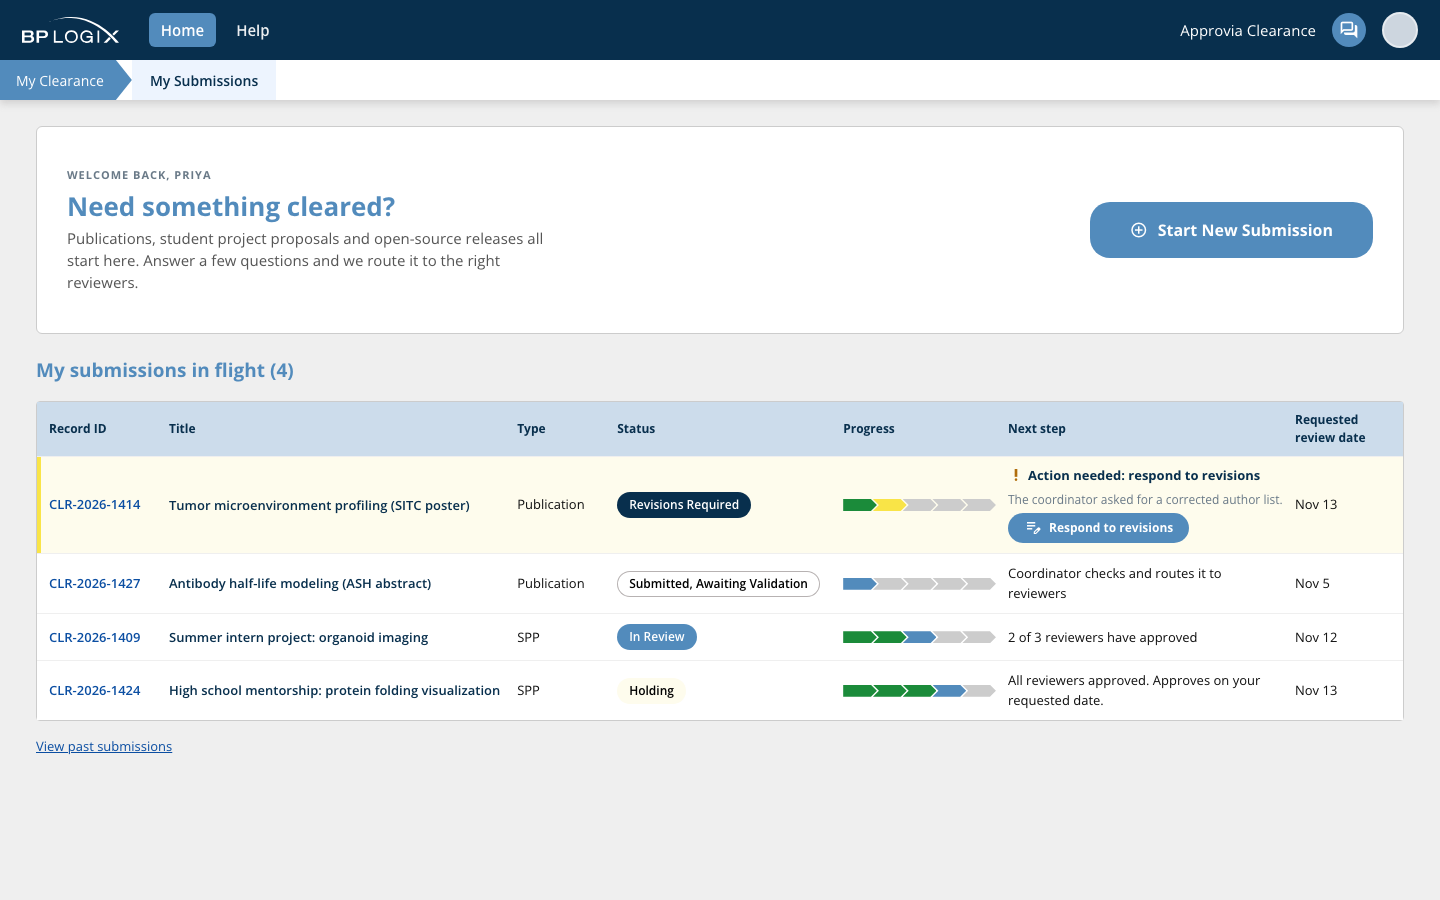
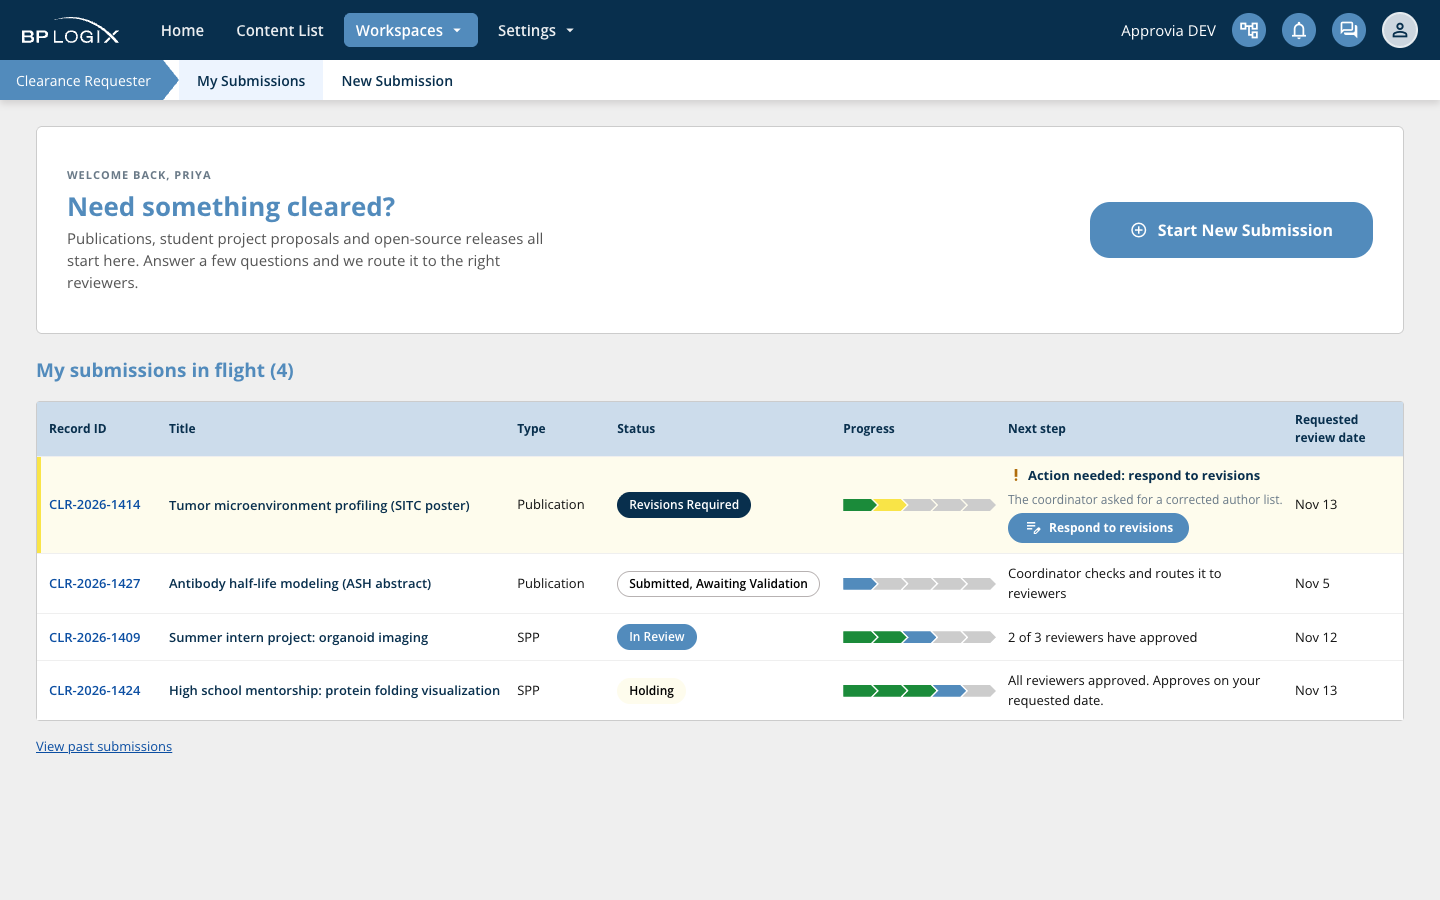
Move the clearance screens into the signed-in PubPro app
Coordinator and requester dashboards and the Student Project Proposal form now
live at /clearance/* inside the app layout, reached from Workspaces and Create
New. The separate no-sign-in /mockups pages are gone; screenshots recaptured.

Changed region(s): [[0.0312, 0.0, 0.4062, 0.1244], [0.7812, 0.0, 0.9375, 0.0622]]

diff --git a/client/src/components/chrome.js b/client/src/components/chrome.js
@@ -5,12 +5,12 @@ const HELP = { label: 'Help', icon: 'info' };
 // One product nav on every staff page (menu items without a page yet are placeholders).
 const FULL_NAV = [
   'Home', 'Content List',
-  { label: 'Workspaces', menuItems: ['Publication Manager Dashboard', 'Executive Dashboard', 'External Author Dashboard', 'Publication Library', 'Reports', HELP] },
+  { label: 'Workspaces', menuItems: ['Publication Manager Dashboard', 'Executive Dashboard', 'External Author Dashboard', 'Publication Library', 'Clearance Coordinator', 'Clearance Requester', 'Reports', HELP] },
   // System Administrator lives under Settings (only people who can manage users see it).
   { label: 'Settings', menuItems: ['System Administrator'] },
 ];
 
-const CREATE_FULL = { label: 'Create New', menuItems: ['Publication', 'Publication Planning', 'External Author', 'IIS Request', 'Grants Management', 'Medical Information Request', 'Review Process Form', 'Standard Medical Response'] };
+const CREATE_FULL = { label: 'Create New', menuItems: ['Publication', 'Publication Planning', 'External Author', 'Student Project Proposal', 'IIS Request', 'Grants Management', 'Medical Information Request', 'Review Process Form', 'Standard Medical Response'] };
 const SEARCH_FULL = { label: 'Searches', menuItems: ['Publications', 'Publication Plans', 'Conferences', 'Journals', 'Studies', 'External Authors', 'Approvia', 'Medical Information Requests'] };
 
 // Layout adds the live unread count from the notifications bell to this tab.
@@ -20,6 +20,12 @@ const EXECUTIVE_DASHBOARD = {
   nav: FULL_NAV, active: 'Home',
   workspace: 'Executive Dashboard', tabs: [ALERTS_TAB, CREATE_FULL, SEARCH_FULL],
 };
+
+// Requesters see only their submissions and the new-submission form.
+const CLEARANCE_REQUESTER = activeTab => ({
+  nav: FULL_NAV, active: 'Workspaces',
+  workspace: 'Clearance Requester', tabs: ['My Submissions', 'New Submission'], activeTab,
+});
 
 export const CHROME = {
   '/dashboard': {
@@ -54,6 +60,13 @@ export const CHROME = {
     nav: FULL_NAV, active: 'Settings',
     workspace: 'System Administrator', tabs: [ALERTS_TAB, CREATE_FULL, SEARCH_FULL],
   },
+  // Clearance screens (static sample data).
+  '/clearance/coordinator': {
+    nav: FULL_NAV, active: 'Workspaces',
+    workspace: 'Clearance Coordinator', tabs: [ALERTS_TAB, CREATE_FULL, SEARCH_FULL],
+  },
+  '/clearance/requester': CLEARANCE_REQUESTER('My Submissions'),
+  '/clearance/new-spp': CLEARANCE_REQUESTER('New Submission'),
   // The Financial Report design has its own navy back bar and no app chrome.
   '/financial-report': null,
 };
@@ -73,6 +86,10 @@ export const MENU_ROUTES = {
   'External Author Dashboard': '/author-dashboard',
   'Publication Library': '/library',
   'System Administrator': '/admin',
+  'Clearance Coordinator': '/clearance/coordinator',
+  'Clearance Requester': '/clearance/requester',
+  'My Submissions': '/clearance/requester',
+  'New Submission': '/clearance/new-spp',
 };
 
 export const SEARCH_ROUTES = {
@@ -94,4 +111,5 @@ export const CREATE_ROUTES = {
   'Publication': '/publication/new',
   'Publication Planning': '/publication-plan/new',
   'External Author': '/external-author/new',
+  'Student Project Proposal': '/clearance/new-spp',
 };

diff --git a/client/src/App.jsx b/client/src/App.jsx
@@ -24,7 +24,9 @@ import UserProfile from './pages/UserProfile';
 import SystemAdmin from './pages/SystemAdmin';
 import PublicationLibrary, { LibraryPublication } from './pages/PublicationLibrary';
 import AuthorInvitation from './pages/AuthorInvitation';
-import RegeneronMockups from './pages/mockups/regeneron';
+import ClearanceCoordinator from './pages/mockups/regeneron/CoordinatorDashboard';
+import ClearanceRequester from './pages/mockups/regeneron/RequesterDashboard';
+import ClearanceSppForm from './pages/mockups/regeneron/SppIntakeForm';
 
 function RequireAuth({ children }) {
   const { user, loading } = useAuth();
@@ -45,8 +47,6 @@ export default function App() {
       <BrowserRouter>
         <Routes>
           <Route path="/login" element={<LoginPage />} />
-          {/* Static sales mockups: no sign-in, no data. */}
-          <Route path="/mockups/regeneron/*" element={<RegeneronMockups />} />
           <Route path="/" element={<RequireAuth><Layout /></RequireAuth>}>
             {/* Staff land on the Publication Manager Dashboard. */}
             <Route index element={<Navigate to="/publication-manager" replace />} />
@@ -73,6 +73,10 @@ export default function App() {
             <Route path="vendor" element={<VendorProfile />} />
             <Route path="financial-report" element={<FinancialReport />} />
             <Route path="workflows" element={<PublicationWorkflows />} />
+            {/* Clearance screens (static sample data, built for the Regeneron steering committee deck). */}
+            <Route path="clearance/coordinator" element={<ClearanceCoordinator />} />
+            <Route path="clearance/requester" element={<ClearanceRequester />} />
+            <Route path="clearance/new-spp" element={<ClearanceSppForm />} />
             <Route path="*" element={<Navigate to="/publication-manager" replace />} />
           </Route>
         </Routes>

diff --git a/client/src/pages/mockups/regeneron/mockups.css b/client/src/pages/mockups/regeneron/mockups.css
@@ -1,8 +1,7 @@
 /* Clearance mockups for the Regeneron steering committee deck. Layout only: every colour,
    size and radius comes from the PubPro design system tokens. Holds from 1,200px to 1,920px. */
 
-.rgm { min-height: 100vh; display: flex; flex-direction: column; background: var(--surface-page); font-family: var(--font-sans); color: var(--text-body); }
-.rgm-chrome { position: sticky; top: 0; z-index: 30; }
+.rgm { min-height: calc(100vh - var(--topnav-h) - var(--wstabs-h)); display: flex; flex-direction: column; background: var(--surface-page); font-family: var(--font-sans); color: var(--text-body); }
 .rgm-page { flex: 1 0 auto; padding: var(--space-11) var(--page-gutter) var(--space-14); display: flex; flex-direction: column; gap: var(--section-gap); }
 
 .rgm-hover { position: relative; display: inline-flex; outline: none; }
@@ -129,10 +128,3 @@
 
 .rgm-bar { position: sticky; bottom: 0; z-index: 20; background: var(--white); box-shadow: var(--shadow-bar), 0 -1px 0 var(--border-divider); }
 .rgm-saved { display: inline-flex; align-items: center; gap: var(--space-3); font-size: var(--fs-sm); color: var(--text-meta); }
-
-/* ---------- Index ---------- */
-.rgm-index { display: grid; grid-template-columns: repeat(auto-fill, minmax(260px, 1fr)); gap: var(--space-8); }
-.rgm-index a { display: flex; flex-direction: column; gap: var(--space-3); text-decoration: none; background: var(--white);
-  border: 1px solid var(--border-divider); border-radius: var(--radius-panel); padding: var(--space-9); color: var(--text-body); }
-.rgm-index a:hover { border-color: var(--high-emphasis); }
-.rgm-index strong { color: var(--text-title); font-size: var(--fs-lg); }

diff --git a/client/src/pages/mockups/regeneron/shared.jsx b/client/src/pages/mockups/regeneron/shared.jsx
@@ -1,19 +1,11 @@
 import React, { useState } from 'react';
-import { Icon, Pill, Tooltip, TopNav, WorkspaceTabs } from '../../../ds/pubpro';
+import { Icon, Pill, Tooltip } from '../../../ds/pubpro';
 import { STATUS_TONE, STEPS, fmt } from './data';
 import './mockups.css';
 
-/** App chrome: the design system's top bar and workspace tabs. No customer logo. */
-export function Shell({ nav, activeNav, workspace, tabs, activeTab, children }) {
-  return (
-    <div className="rgm">
-      <div className="rgm-chrome">
-        <TopNav items={nav} active={activeNav} tenant="Approvia Clearance" />
-        <WorkspaceTabs workspace={workspace} tabs={tabs} active={activeTab} />
-      </div>
-      {children}
-    </div>
-  );
+/** Page wrapper. The signed-in app Layout supplies the top bar and workspace tabs. */
+export function Shell({ children }) {
+  return <div className="rgm">{children}</div>;
 }
 
 /** Named status pill, one tone per status everywhere. Approved uses the positive tint. */

diff --git a/client/src/pages/mockups/regeneron/RequesterDashboard.jsx b/client/src/pages/mockups/regeneron/RequesterDashboard.jsx
@@ -17,7 +17,7 @@ const template = COLS.map(c => c.width).join(' ');
 
 export default function RequesterDashboard() {
   return (
-    <Shell nav={['Home', 'Help']} activeNav="Home" workspace="My Clearance" tabs={['My Submissions']} activeTab="My Submissions">
+    <Shell>
       <main className="rgm-page">
         <section className="rgm-hero" aria-label="Start a submission">
           <div className="rgm-hero-copy">
@@ -25,7 +25,7 @@ export default function RequesterDashboard() {
             <span className="pp-section">Need something cleared?</span>
             <p>Publications, student project proposals and open-source releases all start here. Answer a few questions and we route it to the right reviewers.</p>
           </div>
-          <Link to="../intake?state=a" tabIndex={-1}>
+          <Link to="/clearance/new-spp" tabIndex={-1}>
             <Button icon="add_circle" className="rgm-start">Start New Submission</Button>
           </Link>
         </section>

diff --git a/client/src/pages/mockups/regeneron/CoordinatorDashboard.jsx b/client/src/pages/mockups/regeneron/CoordinatorDashboard.jsx
@@ -150,13 +150,7 @@ export default function CoordinatorDashboard() {
   const toggleFlag = id => setOpenFlags(s => { const n = new Set(s); n.has(id) ? n.delete(id) : n.add(id); return n; });
 
   return (
-    <Shell
-      nav={['Home', 'Submissions', 'Reviewers', 'Settings']}
-      activeNav="Home"
-      workspace="Clearance Coordinator"
-      tabs={['Dashboard', 'All Submissions', 'Reviewer Assignments', { label: 'Searches', menu: true }]}
-      activeTab="Dashboard"
-    >
+    <Shell>
       <main className="rgm-page">
         <header className="rgm-head">
           <div>

diff --git a/client/src/pages/mockups/regeneron/SppIntakeForm.jsx b/client/src/pages/mockups/regeneron/SppIntakeForm.jsx
@@ -69,7 +69,7 @@ export default function SppIntakeForm() {
   ].filter(Boolean);
 
   return (
-    <Shell nav={['Home', 'Help']} activeNav="Home" workspace="My Clearance" tabs={['My Submissions', 'New Submission']} activeTab="New Submission">
+    <Shell>
       <main className="rgm-page">
         <header className="rgm-form-head">
           <div>

diff --git a/client/src/components/Layout.jsx b/client/src/components/Layout.jsx
@@ -34,6 +34,8 @@ const WORKSPACE_HOME = {
   'External Author Dashboard': '/author-dashboard',
   'Publication Library': '/library',
   'System Administrator': '/admin',
+  'Clearance Coordinator': '/clearance/coordinator',
+  'Clearance Requester': '/clearance/requester',
 };
 
 export default function Layout() {

diff --git a/docs/regeneron-mockups/README.md b/docs/regeneron-mockups/README.md
@@ -12,21 +12,18 @@ Static screens for the deck. Fictional names and record IDs, no customer logo, n
 | `3b-intake-form-state-b.png` | State B: Student Intern + graduation year, date inside 6 business days, expedited reason, two departments |
 | `3x-intake-form-clinical-hard-stop.png` | Extra: "related to a clinical program" = Yes stops the form |
 
-## Live pages (no sign-in)
+## In the PubPro app (sign-in required)
 
-- https://pubpro-production.up.railway.app/mockups/regeneron (index)
-- `/mockups/regeneron/coordinator`
-- `/mockups/regeneron/requester`
-- `/mockups/regeneron/intake?state=a`, `?state=b`, `?state=clinical`
+- **Workspaces → Clearance Coordinator**: `/clearance/coordinator`
+- **Workspaces → Clearance Requester**: `/clearance/requester` (its "Start New Submission" opens the form)
+- **Create New → Student Project Proposal**: `/clearance/new-spp`. Add `?state=a`, `?state=b` or `?state=clinical` to open a captured state.
 
-Hover a progress chevron for the step name and date, an Approvia AI flag for the field to check, or an info icon for what an answer triggers. The quick filters, AI flag expand, row menu and form answers respond to clicks. "Today" is fixed at Thu Nov 5, 2026 so captures stay the same.
+Live: https://pubpro-production.up.railway.app/clearance/coordinator
+
+Hover a progress chevron for the step name and date, an Approvia AI flag for the field to check, or an info icon for what an answer triggers. The quick filters, AI flag expand, row menu and form answers respond to clicks. The screens use fixed sample data, not the signed-in user's records, and "today" is fixed at Thu Nov 5, 2026 so captures stay the same.
 
 ## Recapturing
 
-Run the client dev server (`npm run dev`, Vite on port 5173), then capture with headless Chrome at 1,440px, for example:
+The pages need a signed-in session, so capture them from a browser signed in to the local dev server (`npm run dev`, Vite on port 5173) at 1,440px wide, full page.
 
-```bash
-"/Applications/Google Chrome.app/Contents/MacOS/Google Chrome" --headless=new --hide-scrollbars --window-size=1440,1640 --virtual-time-budget=8000 --screenshot=1-coordinator-dashboard.png http://localhost:5173/mockups/regeneron/coordinator
-```
-
-Source: `client/src/pages/mockups/regeneron/`.
+Source: `client/src/pages/mockups/regeneron/`; nav entries in `client/src/components/chrome.js`.
